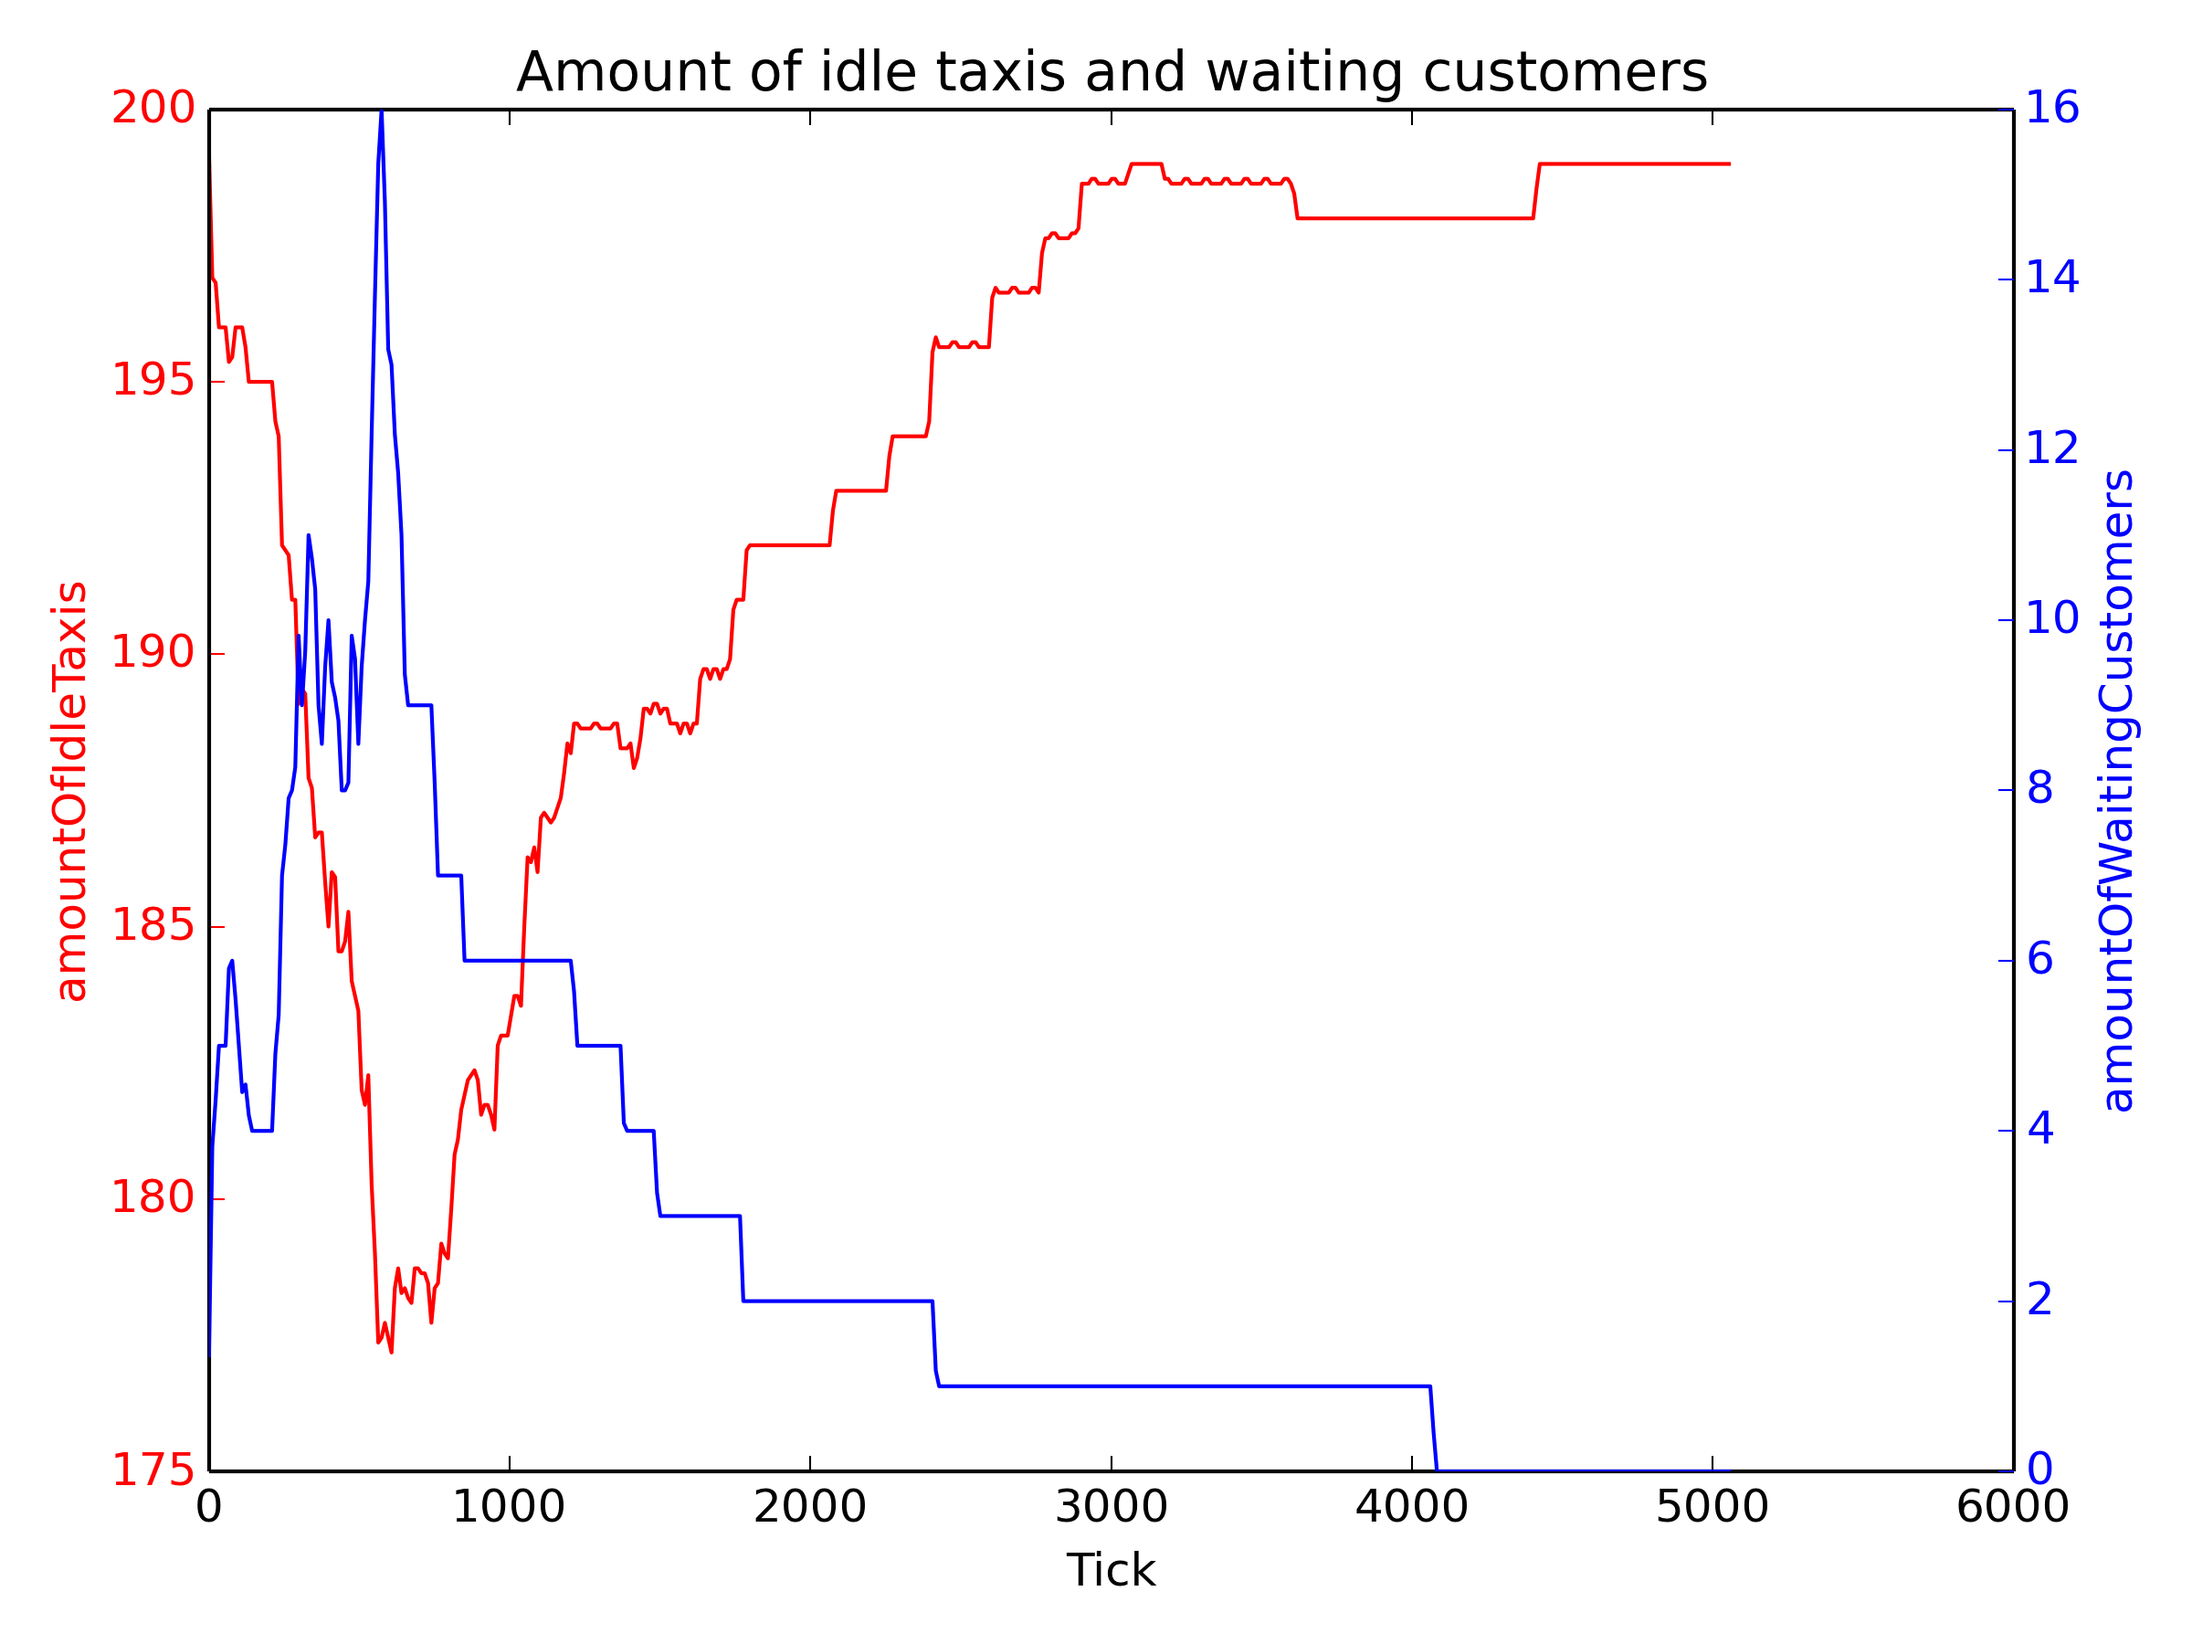
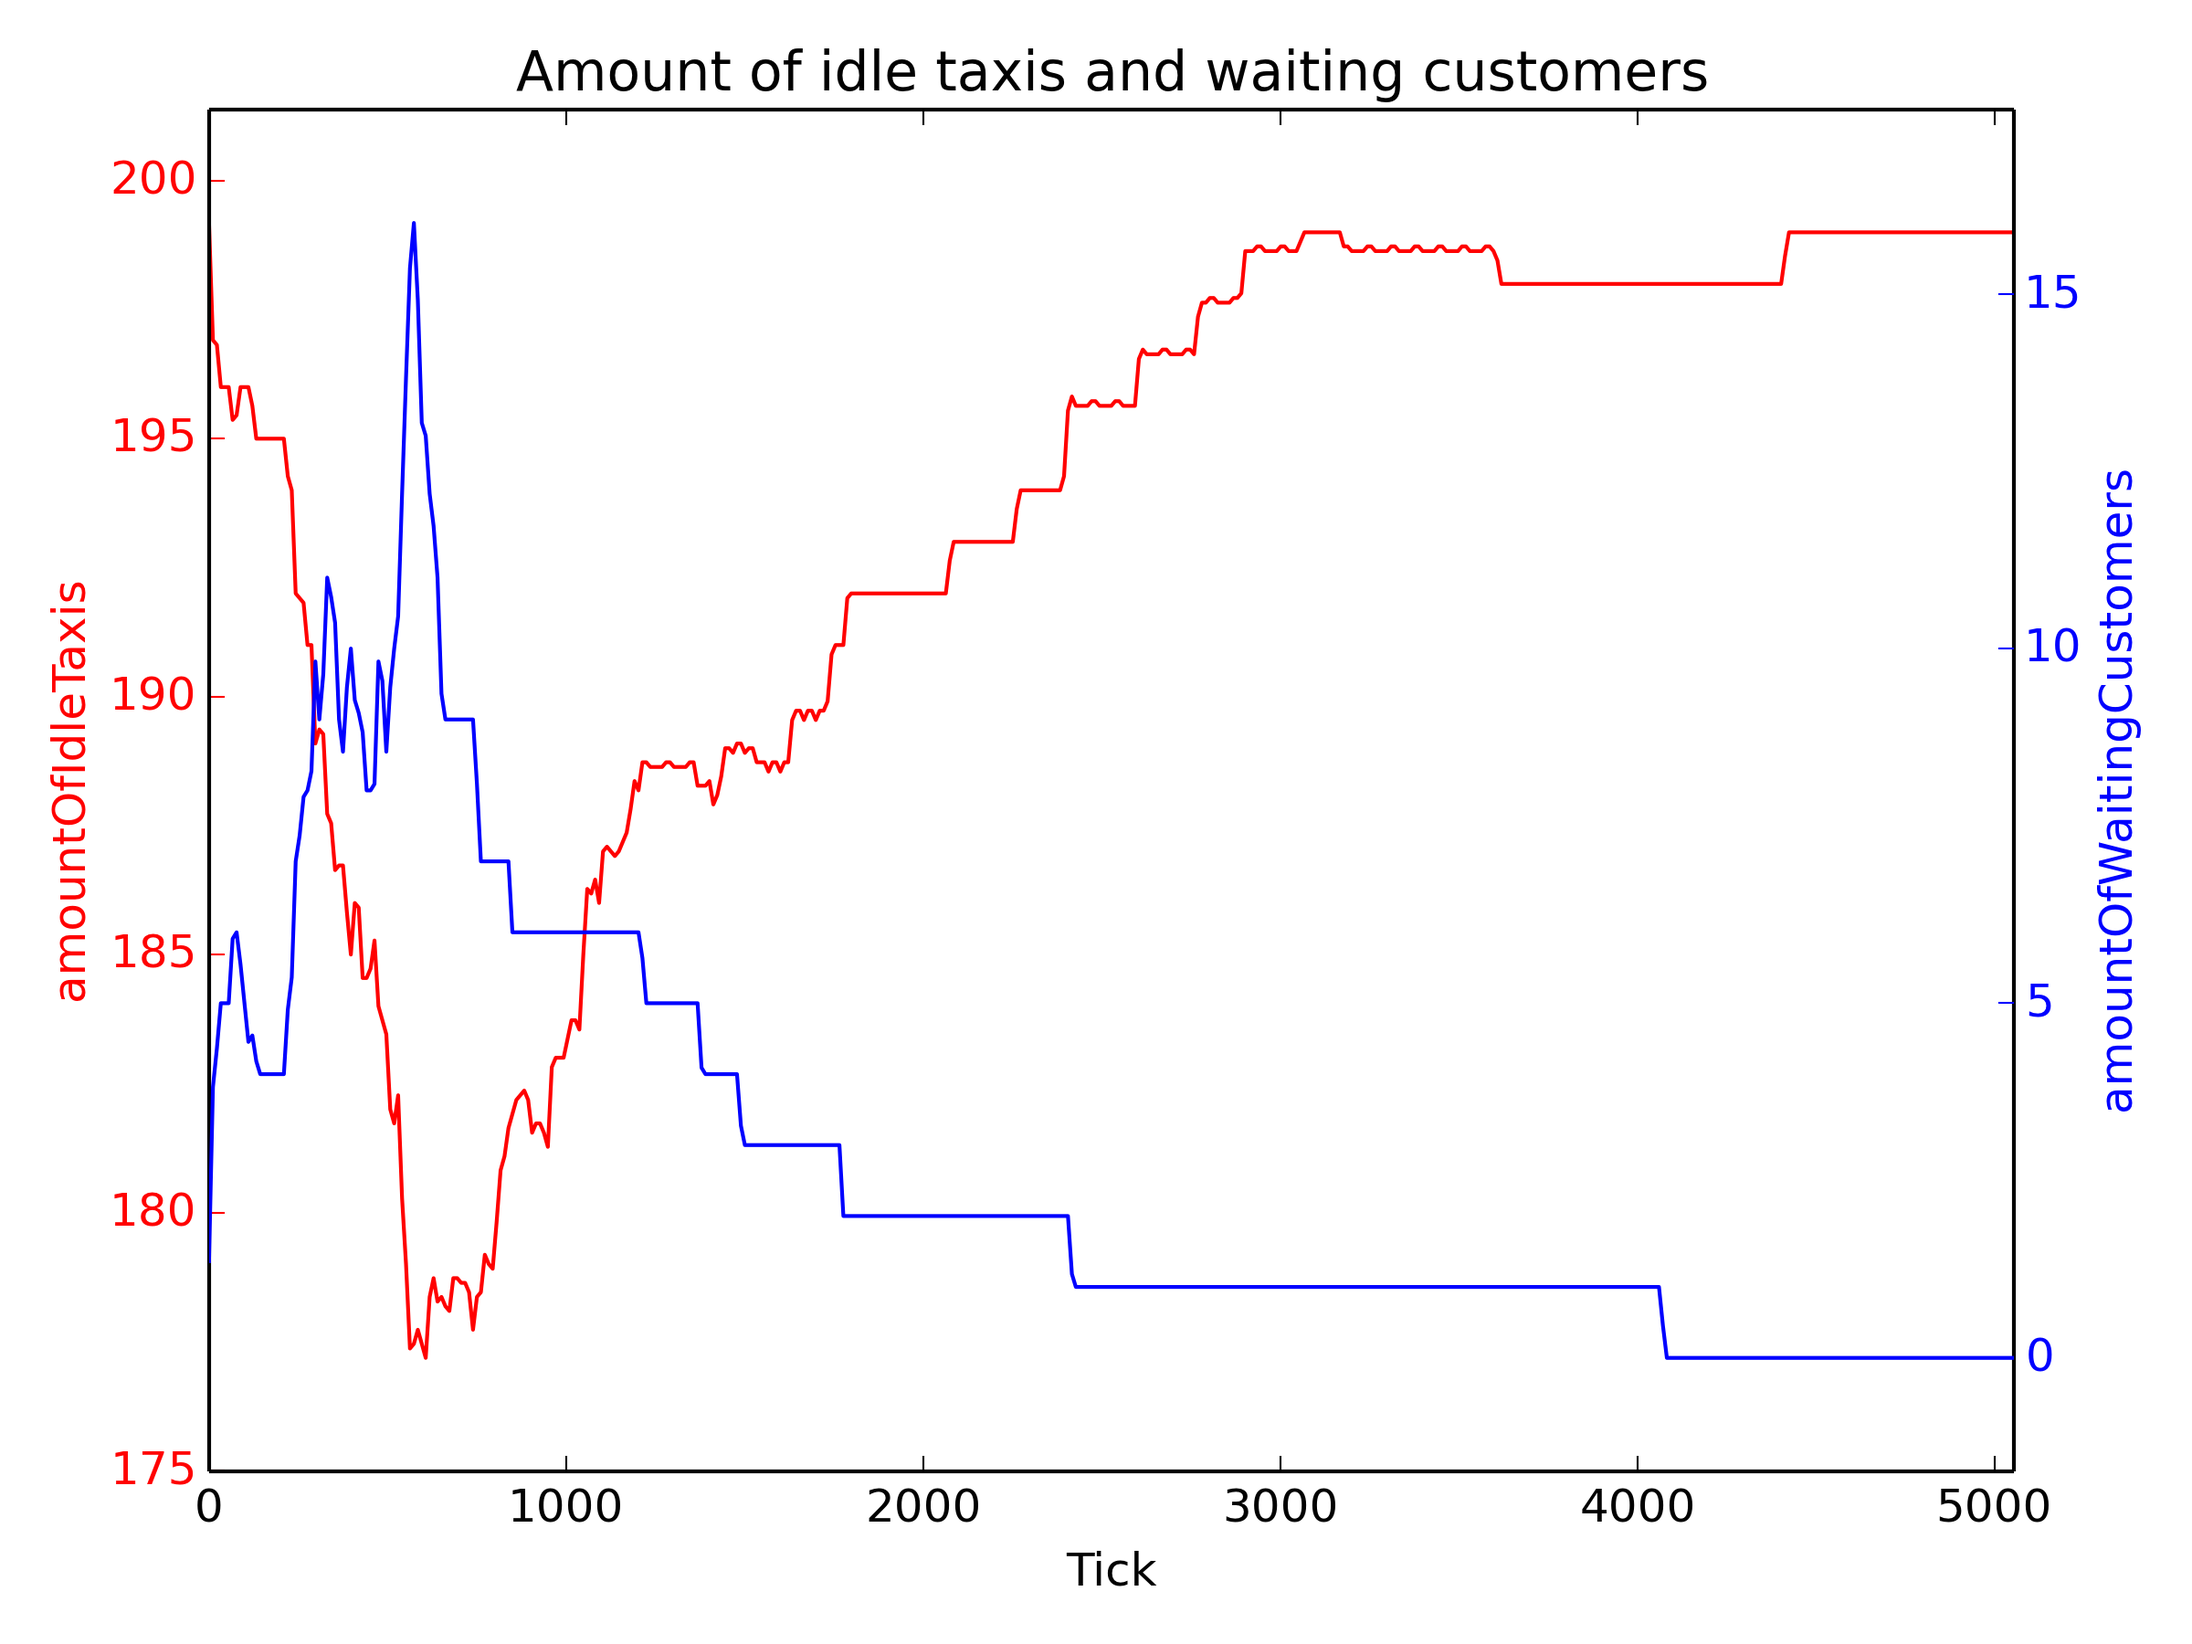
Fixes

diff --git a/scripts/json_experiments.py b/scripts/json_experiments.py
@@ -15,7 +15,7 @@ def analyze_experiment(filename):
     timestamp = filename.split('_')[1].split('.')[0]
     print timestamp
     print j
-    print "\n".join(j.keys())
+    # print "\n".join(j.keys())
     make_plots(timestamp, j)
 
 
@@ -40,6 +40,7 @@ def make_double_plot(timestamp, j, title, k1, k2, xlabel='Tick'):
   ax1.plot(x1, y1, 'r-')
   ax1.set_xlabel(xlabel)
   ax1.set_ylabel(k1, color='r')
+  ax1.margins(0, 0.1)
   ax1.tick_params('y', colors='r')
 
   ax2 = ax1.twinx()
@@ -47,12 +48,11 @@ def make_double_plot(timestamp, j, title, k1, k2, xlabel='Tick'):
   x2 = np.linspace(0, x_max, num=len(y2))
   ax2.plot(x2, y2, 'b-')
   ax2.set_ylabel(k2, color='b')
+  ax2.margins(0, 0.1)
   ax2.tick_params('y', colors='b')
 
-  plt.ylim(ymin=0)
-
   plt.title(title)
-  fig.tight_layout()
+  # fig.tight_layout()
   # plt.show()
   plt.savefig(os.path.join('..', 'figures', '{}_{}_{}.png'.format(timestamp, k1, k2)), dpi=300)
   plt.close('all')
